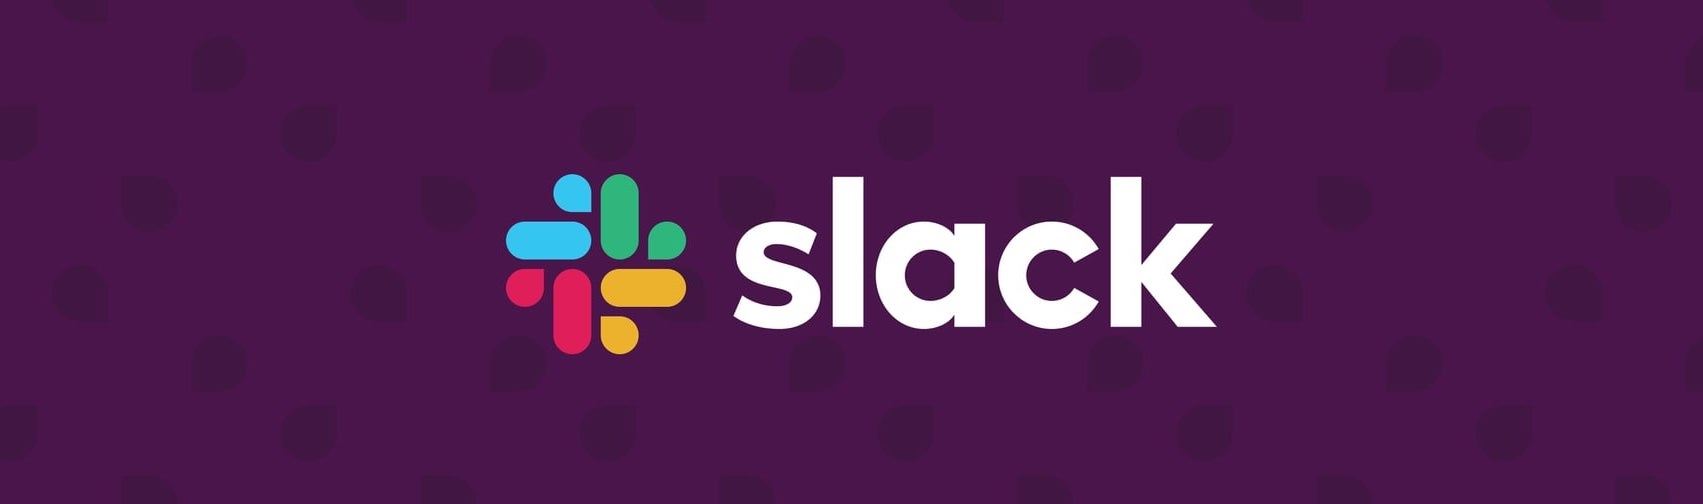
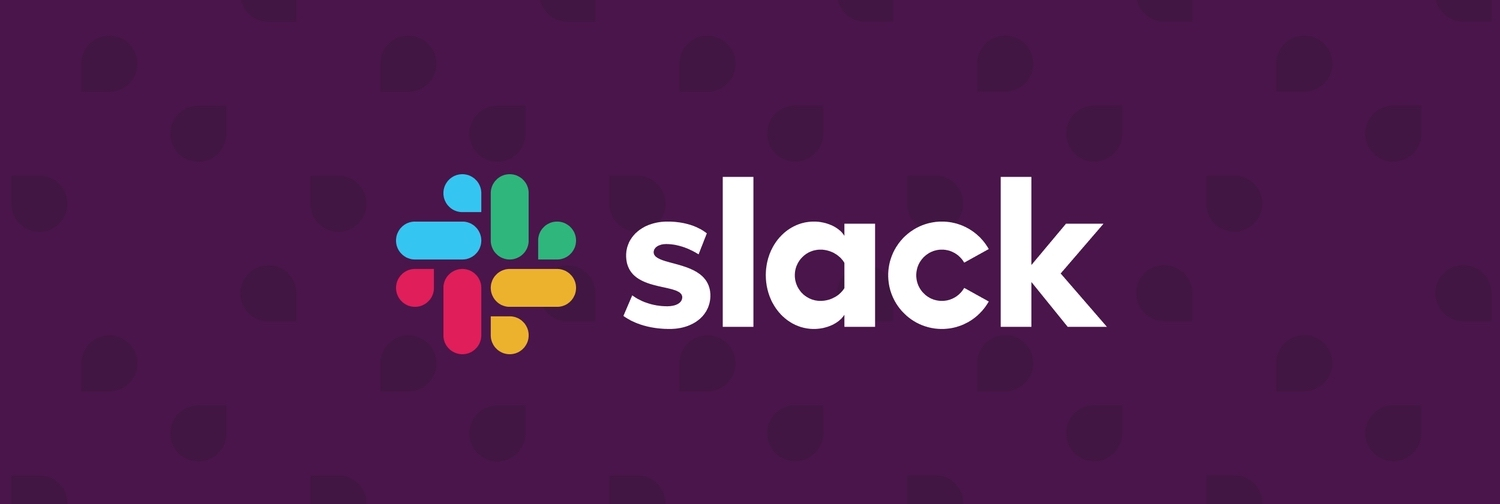
career growth items

Changed region(s): [[0.2453, 0.3274, 0.736, 0.7143]]

diff --git a/site/layouts/partials/content/footer/contribute.html b/site/layouts/partials/content/footer/contribute.html
@@ -1,4 +1,4 @@
 <h3>Contribute</h3>
 <p>If you&rsquo;d like to make this page better or notice something off, feel free to
-  <a href="https://github.com/techqueria/website/issues" target="_blank" rel="noopener">open an issue on GitHub</a>.</p>
+<a href="https://github.com/techqueria/website/issues/new/choose" target="_blank" rel="noopener">open an issue on GitHub</a>.</p>
 <p>Any help is greatly appreciated. 😊</p>

diff --git a/site/layouts/partials/content/_index.html b/site/layouts/partials/content/_index.html
@@ -4,7 +4,7 @@
   <!-- Hero Image -->
   {{ if .Params.image }}
   <div class="has-text-centered">
-    <img class="image hero lozad" src="{{ .Params.image }}" data-src="{{ .Params.image }}" alt="{{ .Title }}">
+    <img class="image hero mb-1 lozad" src="{{ .Params.image }}" data-src="{{ .Params.image }}" alt="{{ .Title }}">
   </div>
   {{ end }}
   <!-- Author -->

diff --git a/site/layouts/partials/content/person.html b/site/layouts/partials/content/person.html
@@ -3,7 +3,7 @@
   <p><strong>Written by
       {{ range $i, $kw := . }}
       {{ if $i }}&bullet;{{ end }}
-      <a href="/about/people/{{ . | urlize }}/" rel="author">{{ . }}</a>
+      <a href="/people/{{ . | urlize }}/" rel="author">{{ . }}</a>
       {{ end }}
     </strong></p>
 </div>

diff --git a/site/content/resources/career/_index.md b/site/content/resources/career/_index.md
@@ -6,21 +6,3 @@ aliases:
   - /careers/
   - /resources/career-growth/
 ---
-
-## Slack
-
-Within the Techqueria community, we provide different resources to help our members advance their careers, whether it is to find a new job, negotiate, practice for interviews or find new employees.
-
-To join our Slack team, you can request an invite to your email [on our Slack welcome page](/communities/slack/) and then you can participate with your smartphone or computer.
-
-If you haven't used Slack before, take a look at these [Getting Started pages](https://get.slack.help/hc/en-us/articles/218080037-Getting-started-for-new-users) where they explain how to take advantage of all the features.
-
-In Slack, we have a channel titled `#jobs` that hosts all these discussions.
-
-## LinkedIn
-
-There's a [LinkedIn](https://www.linkedin.com/groups/13500636) group to post about job offers, recommendations, and get information to advance your career.
-
-## Meetups
-
-We hold events around once a month through [our Meetup Group](https://www.meetup.com/techqueria/) in the Bay Area, these events are an excellent opportunity to make new friends and connections, to help you land a job, and for some Meetups, we have coding workshops or training related t0 career progress.

diff --git a/site/content/resources/career/slack.md b/site/content/resources/career/slack.md
@@ -1,0 +1,13 @@
+---
+title: "Slack #jobs Channel"
+image: "/assets/img/slack/banner.jpeg"
+description: Within the Techqueria community, we provide different resources to help our members advance their careers, whether it is to find a new job, negotiate, practice for interviews or find new employees.
+---
+
+Within the Techqueria community, we provide different resources to help our members advance their careers, whether it is to find a new job, negotiate, practice for interviews or find new employees.
+
+To join our Slack Workspace, you can request an invite to your email [on our Slack welcome page](/communities/slack/) and then you can participate with your smartphone or computer.
+
+If you haven't used Slack before, take a look at these [Getting Started pages](https://get.slack.help/hc/en-us/articles/218080037-Getting-started-for-new-users) where they explain how to take advantage of all the features.
+
+In Slack, we have a channel titled `#jobs` that hosts all these discussions.

diff --git a/.github/CONTRIBUTING.md b/.github/CONTRIBUTING.md
@@ -50,7 +50,7 @@ Feel free to contribute to the Techqueria website in one or more of the followin
   - If an issue has the label `in progress`, someone is already working on it.
   - If an issue has the label `admin`, an admin probably needs to get involved since it requires admin access.
   - **Even if an issue has someone assigned, it still might need extra help so check it out if it appeals to you!**
-- [Open a new issue](https://github.com/techqueria/website/issues/new)
+- [Open a new issue](https://github.com/techqueria/website/issues/new/choose)
 - [Report a bug](https://github.com/techqueria/website/issues/new?template=bug-report.md)
 - [Request a new feature](https://github.com/techqueria/website/issues/new?template=feature-request.md)
 - Improve our [contributing guidelines](https://github.com/techqueria/website/blob/master/.github/CONTRIBUTING.md) (this file) or other documentation

diff --git a/site/content/resources/podcasts/black-and-brown-founders.md b/site/content/resources/podcasts/black-and-brown-founders.md
@@ -2,5 +2,5 @@
 title: "Black & Brown Founders: Rewriting the Playbook"
 description: Join Black & Brown Founders on the journey from ideation to revenue generation and beyond. Your hosts, Aniyia Williams and Deldelp Medina, are here to explain the rules of the game and how to build a badass tech business against all odds.
 link: https://blackandbrownfounders.com/podcast/
-image: https://static1.squarespace.com/static/58a2074a5016e1e70323d493/t/5b58c775575d1fec1d72442f/1532544896748/0000-1.7-Rewriting-the-Playbook-Podcast-Cover2.jpg?format=1500w
+image: "/assets/img/resources/podcasts/black-and-brown-founders.png"
 ---

diff --git a/site/content/resources/career/meetups.md b/site/content/resources/career/meetups.md
@@ -1,0 +1,7 @@
+---
+title: Meetups
+image: https://cdn.logojoy.com/wp-content/uploads/2017/07/Meetup_logo.png
+description: These events are an excellent opportunity to make new friends and connections, to help you land a job
+---
+
+We hold events around once a month through [our Meetup Group](https://www.meetup.com/techqueria/) in the Bay Area, these events are an excellent opportunity to make new friends and connections, to help you land a job, and for some Meetups, we have coding workshops or training related t0 career progress.

diff --git a/site/content/resources/career/linkedin-group.md b/site/content/resources/career/linkedin-group.md
@@ -1,0 +1,6 @@
+---
+title: LinkedIn Group
+image: https://media.wired.com/photos/592681fc8d4ebc5ab806a856/191:100/pass/LinkedIn_HP.jpg
+description: There's a LinkedIn group to post about job offers, recommendations, and get information to advance your career.
+link: https://www.linkedin.com/groups/13500636
+---

diff --git a/site/content/resources/career/apprenticeships.md b/site/content/resources/career/apprenticeships.md
@@ -1,0 +1,6 @@
+---
+title: "Apprenticeships.me"
+image: https://i.imgur.com/jCh1pBO.png
+description: Find a new career learning from the industry itself.
+link: https://apprenticeships.me
+---
